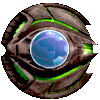
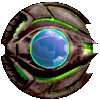
major update

Changed region(s): [[0.0, 0.0, 0.99, 0.69], [0.51, 0.45, 0.54, 0.48]]

diff --git a/SpaceBeholders.py b/SpaceBeholders.py
@@ -17,7 +17,16 @@ RED = (255,0,0)
 GREEN = (0,255,0)
 YELLOW = (255, 255, 0)
 
-LEVEL = 4
+BEHOLDER_IMG = "beholder.png"
+ASTEROID_IMG = "asteroid2.png"
+EXPLOSION_A = "explosion_01.png"
+#BACKGROUND_IMG = "space.png"
+SHIP_IMG = "ship.png"
+CURSOR_IMG = "cursor.png"
+HEALTHBAR_IMG = "healthbar.png"
+HEALTH_IMG = "health.png"
+BULLET_IMG = "bullet.png"
+
 DEBUG = True
 PENALTY = [0]
 ACCBONUS = 0
@@ -26,9 +35,6 @@ SCORE = 0
 GAME_FOLDER = path.dirname(__file__)
 RESOURCES_FOLDER = path.join(GAME_FOLDER, "resources")
 IMG_FOLDER = path.join(RESOURCES_FOLDER, "images")
-
-# ALIEN_SHEET_IMAGE = pygame.image.load(path.join(IMG_FOLDER,'beholder.png')).convert_alpha()
-# ALIEN_SHEET = Aliensheet(ALIEN_SHEET_IMAGE)
 
 SCREEN = pygame.display.set_mode((WIDTH, HEIGHT), FULLSCREEN, 32)
 GAMEFONT = pygame.freetype.Font(path.join(RESOURCES_FOLDER, "AlloyInk.ttf"), 22)
@@ -40,7 +46,7 @@ class Player(pygame.sprite.Sprite):
         self.backup_image = self.image
         self.image.set_colorkey(WHITE)
         self.rect = self.image.get_rect()
-        self.radius = 44
+        self.radius = 42
         self.rect.center = (WIDTH / 2, HEIGHT - 20)
         self.speedx = 0
         self.speedy = 0
@@ -82,10 +88,10 @@ class Player(pygame.sprite.Sprite):
 
 class Aliensheet():
     def __init__(self):
-        self.sheet = pygame.image.load(path.join(IMG_FOLDER,'beholder.png')).convert_alpha()
+        self.sheet = pygame.image.load(path.join(IMG_FOLDER,BEHOLDER_IMG)).convert()
 
     def get_image(self, row, frame):
-        image = pygame.Surface((100, 100)).convert_alpha()
+        image = pygame.Surface((100, 100))
         image.blit(self.sheet, (0,0), ((frame * 100), (row * 100), 100, 100))
         image.set_colorkey(WHITE)
 
@@ -170,12 +176,10 @@ class AlienDeath(pygame.sprite.Sprite):
         if self.timer <= 0:
             self.kill()
             
-
 class Asteroid(pygame.sprite.Sprite):
     def __init__(self, x):
-        pygame.sprite.Sprite.__init__(self)
-        
-        self.image = pygame.image.load(path.join(IMG_FOLDER, "asteroid2.png"))
+        pygame.sprite.Sprite.__init__(self)  
+        self.image = pygame.image.load(path.join(IMG_FOLDER, ASTEROID_IMG)).convert()
         self.image.set_colorkey(WHITE)
         self.rect = self.image.get_rect()
         self.radius = 44
@@ -194,11 +198,31 @@ class Asteroid(pygame.sprite.Sprite):
         if self.rect.top > HEIGHT + 10:
             self.kill()
 
-class Bullet(pygame.sprite.Sprite):
-    def __init__(self, x, y, color):
+class SpaceDebris(pygame.sprite.Sprite):
+    def __init__(self):
         pygame.sprite.Sprite.__init__(self)
-        self.image = pygame.Surface((10,10))
-        self.image.fill(color)       
+        self.pseed = rd.randint(1, 4)
+        self.cseed = rd.randint(2, 255)
+        self.x = self.pseed
+        self.y = self.pseed
+        self.speed = rd.randrange(8, 12)
+        self.image = pygame.Surface((self.x, self.y))
+        self.image.fill((self.cseed, self.cseed, self.cseed))
+        self.rect = self.image.get_rect()
+        self.rect.y = -100
+        self.rect.x = rd.randint(0, WIDTH)
+        self._layer = -1
+
+    def update(self):
+        self.rect.y += self.speed
+
+class Bullet(pygame.sprite.Sprite):
+    def __init__(self, x, y, image):
+        pygame.sprite.Sprite.__init__(self)
+        #self.image = pygame.Surface((10,10))
+        self.image = pygame.image.load(path.join(IMG_FOLDER, image)).convert()
+        self.image.set_colorkey(BLACK)     
+        self.radius = 4.5
         self.rect = self.image.get_rect()
         self.rect.centery = y
         self.rect.centerx = x
@@ -222,11 +246,11 @@ class Bullet(pygame.sprite.Sprite):
 
 class Explosionsheet():
     def __init__(self):
-        self.sheet = pygame.image.load(path.join(IMG_FOLDER,'explosion_01_strip13.png')).convert_alpha()
+        self.sheet = pygame.image.load(path.join(IMG_FOLDER, EXPLOSION_A)).convert()
 
-    def get_image(self, row, frame):
-        image = pygame.Surface((100, 100)).convert_alpha()
-        image.blit(self.sheet, (0,0), ((frame * 100), (row * 100), 100, 100))
+    def get_image(self, frame):
+        image = pygame.Surface((100, 100))
+        image.blit(self.sheet, (0,0), ((frame * 100), 0, 100, 100))
         image.set_colorkey(BLACK)
 
         return image
@@ -235,12 +259,16 @@ class Explosion(pygame.sprite.Sprite):
     def __init__(self, x, y):
         pygame.sprite.Sprite.__init__(self)
         
-        self.image1 = Explosionsheet().get_image(0,0)
-        self.image2 = Explosionsheet().get_image(0,1)
-        self.image3 = Explosionsheet().get_image(0,2)
-        self.image4 = Explosionsheet().get_image(0,3)
-        self.image5 = Explosionsheet().get_image(0,4)
-        self.image6 = Explosionsheet().get_image(0,5)
+        self.image1 = Explosionsheet().get_image(0)
+        self.image2 = Explosionsheet().get_image(1)
+        self.image3 = Explosionsheet().get_image(2)
+        self.image4 = Explosionsheet().get_image(3)
+        self.image5 = Explosionsheet().get_image(4)
+        self.image6 = Explosionsheet().get_image(5)
+        self.image7 = Explosionsheet().get_image(7)
+        self.image8 = Explosionsheet().get_image(8)
+        self.image9 = Explosionsheet().get_image(9)
+        self.image10 = Explosionsheet().get_image(10)
         self.image = self.image1
         self.rect = self.image.get_rect()
         self.rect.x = x
@@ -249,11 +277,11 @@ class Explosion(pygame.sprite.Sprite):
 
     def update(self):
         self.timer -= 1.5
-        if self.timer <= 29:
-            self.image = self.image1
         if self.timer <= 25:
-            self.image = self.image2
+            self.image = self.image1
         if self.timer <= 20:
+            self.image = self.image2
+        if self.timer <= 40:
             self.image = self.image3
         if self.timer <= 15:
             self.image = self.image4
@@ -284,12 +312,12 @@ class Healthbar(pygame.sprite.Sprite):
         self.rect = self.image.get_rect()
         self.rect.left, self.rect.top = loc
 
-class Background(pygame.sprite.Sprite):
-    def __init__(self, img, loc):
-        pygame.sprite.Sprite.__init__(self)
-        self.image = pygame.image.load(path.join(IMG_FOLDER, img)).convert()
-        self.rect = self.image.get_rect()
-        self.rect.left, self.rect.top = loc
+# class Background(pygame.sprite.Sprite):
+#     def __init__(self, img, loc):
+#         pygame.sprite.Sprite.__init__(self)
+#         self.image = pygame.image.load(path.join(IMG_FOLDER, img)).convert()
+#         self.rect = self.image.get_rect()
+#         self.rect.left, self.rect.top = loc
 
 class Splashscreen(object):
     def __init__(self):
@@ -317,7 +345,7 @@ class Game(object):
         self.score = 0
         self.deaths = -1
         self.level = 4
-        self.timer = 20.00
+        self.timer = 00
         self.accuracy = [0,0]
         self.acccalc = 0
 
@@ -327,11 +355,13 @@ class Game(object):
         self.enemies = pygame.sprite.Group()
         self.bullets = pygame.sprite.Group()
         self.asteroids = pygame.sprite.Group()
+        self.fx = pygame.sprite.Group()
+        self.debris = pygame.sprite.Group()
 
-        self.space = Background("space.png", [0,0])
-        self.player = Player("ship2.png")
-        self.cursor = Cursor("cursor.png")
-        self.healthbar = Healthbar("healthbar.png", "health.png", [5,5])
+        #self.space = Background(BACKGROUND_IMG, [0,0])
+        self.player = Player(SHIP_IMG)
+        self.cursor = Cursor(CURSOR_IMG)
+        self.healthbar = Healthbar(HEALTHBAR_IMG, HEALTH_IMG, [5,5])
         self.shooting = False
         self.bullet_timer = 0.5
         self.shoot_if = 0
@@ -385,7 +415,7 @@ class Game(object):
                     self.bullet_timer -= self.shoot_if
                     if self.bullet_timer <= 0:
                         self.bullet_timer = 0.5
-                        self.bullet = Bullet(self.player.rect.centerx, self.player.rect.centery, GREEN)
+                        self.bullet = Bullet(self.player.rect.centerx, self.player.rect.centery, BULLET_IMG)
                         self.all.add(self.bullet)
                         self.bullets.add(self.bullet)
                         self.accuracy[1] += 1
@@ -405,8 +435,8 @@ class Game(object):
                     m = Alien()
                     self.all.add(m)
                     self.enemies.add(m)
-
-            asteroid_hit = pygame.sprite.groupcollide(self.asteroids, self.bullets, False, True)        
+      
+            asteroid_hit = pygame.sprite.groupcollide(self.asteroids, self.bullets, False, True)
 
             collide = pygame.sprite.spritecollide(self.player, self.asteroids, False, pygame.sprite.collide_circle)
             if collide:
@@ -418,6 +448,7 @@ class Game(object):
                     ey = (sprite.rect.y + self.player.rect.y) / 2
                     e = Explosion(ex, ey)
                     self.all.add(e)
+                    self.fx.add(e)
 
             collide = pygame.sprite.spritecollide(self.player, self.enemies, False, pygame.sprite.collide_circle)
             if collide:
@@ -456,23 +487,36 @@ class Game(object):
 
             # Draw
             SCREEN.fill(BLACK)
-            SCREEN.blit(self.space.image,self.space.rect)
+            #SCREEN.blit(self.space.image,self.space.rect)
             SCREEN.blit(self.healthbar.image,(5,5))
             for i in range(self.player.health):
                 SCREEN.blit(self.healthbar.health, (i+8,8))
 
             GAMEFONT.render_to(SCREEN, (875,15), "'Esc' to Quit", RED, None, size=18)
-            GAMEFONT.render_to(SCREEN, (500,700), "Score: " + str(self.score), RED, None, size=18)            
-            GAMEFONT.render_to(SCREEN, (500,650), "Level: " + str(self.level - 3), RED, None, size=18)
-            GAMEFONT.render_to(SCREEN, (500,600), "Round: " + str(self.timer), RED, None, size=18)            
+            GAMEFONT.render_to(SCREEN, (200,700), "Score: " + str(self.score), RED, None, size=18)            
+            GAMEFONT.render_to(SCREEN, (10,700), "Level: " + str(self.level - 3), RED, None, size=18)
+            GAMEFONT.render_to(SCREEN, (400,700), "Round: " + str(self.timer), RED, None, size=18) 
+            GAMEFONT.render_to(SCREEN, (700,700), "Accuracy: " + str(round(self.acccalc, 2)) + "%", RED, None, size=18)          
             if self.timer < 3.0:
                 GAMEFONT.render_to(SCREEN, (500,300), str(int(self.timer)), RED, None, size=40)
-            if DEBUG:
-                GAMEFONT.render_to(SCREEN, (700,600), "Enemies: " + str(len(self.enemies)), RED, None, size=18)
-                GAMEFONT.render_to(SCREEN, (700,650), "Accuracy: " + str(round(self.acccalc, 2)) + "%", RED, None, size=18)
-                GAMEFONT.render_to(SCREEN, (700,700), str(self.clock), RED, None, size=18)    
+
+            if int(self.clock.get_fps()) > 60:
+                self.newdebris = SpaceDebris()
+                self.debris.add(self.newdebris)
+                self.all.add(self.newdebris)
 
             self.all.draw(SCREEN)
+
+            if DEBUG:
+                pygame.draw.circle(SCREEN, GREEN, (self.player.rect.centerx, self.player.rect.centery), 42, 1)
+                for sprite in self.asteroids:
+                    pygame.draw.circle(SCREEN, RED, (sprite.rect.centerx, sprite.rect.centery), 44, 1)
+                for sprite in self.enemies:
+                    pygame.draw.circle(SCREEN, RED, (sprite.rect.centerx, sprite.rect.centery), 44, 1)
+                GAMEFONT.render_to(SCREEN, (250,10), "DEBUG MODE ON", RED, None, size=18)
+                GAMEFONT.render_to(SCREEN, (10,650), "Enemies: " + str(len(self.enemies)), RED, None, size=18)   
+                GAMEFONT.render_to(SCREEN, (700,650), str(self.clock), RED, None, size=18)
+
             pygame.display.flip()
         
         global SCORE 
